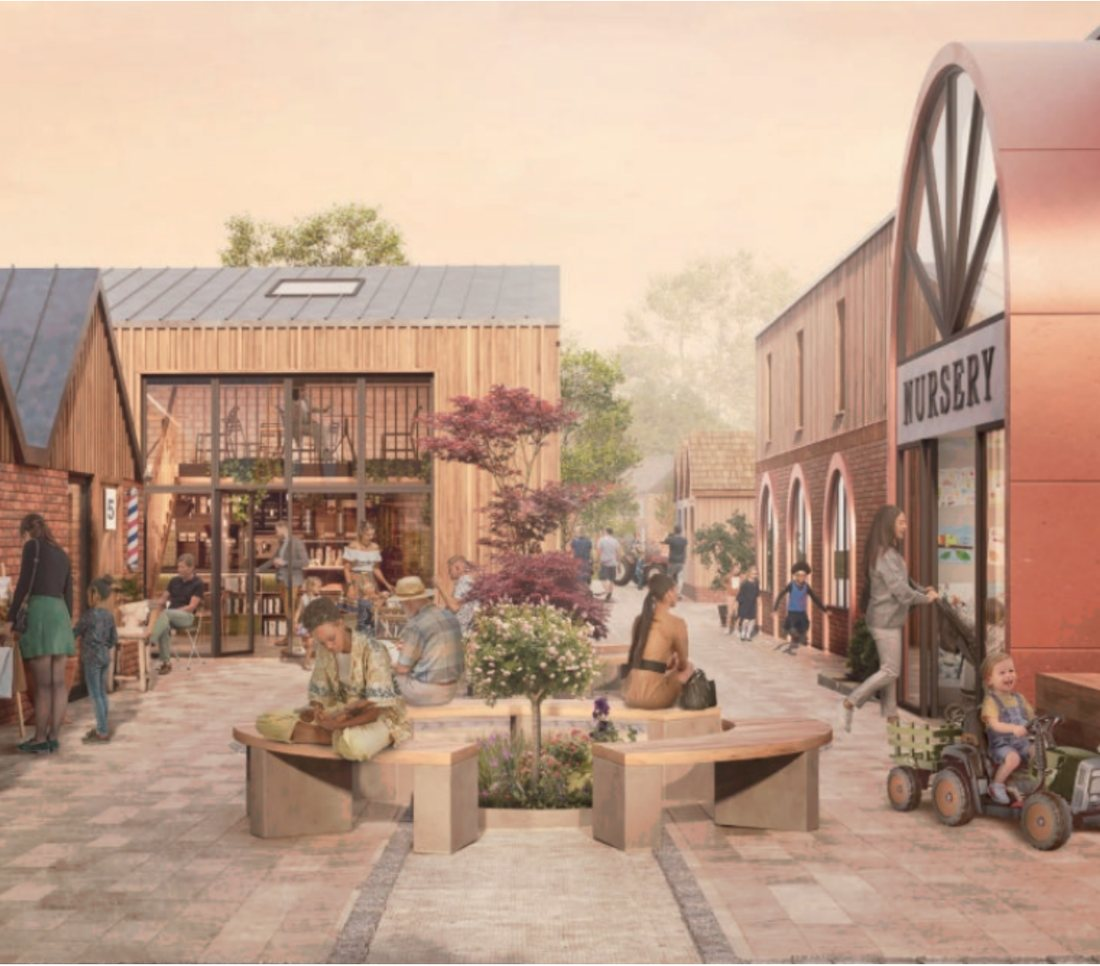
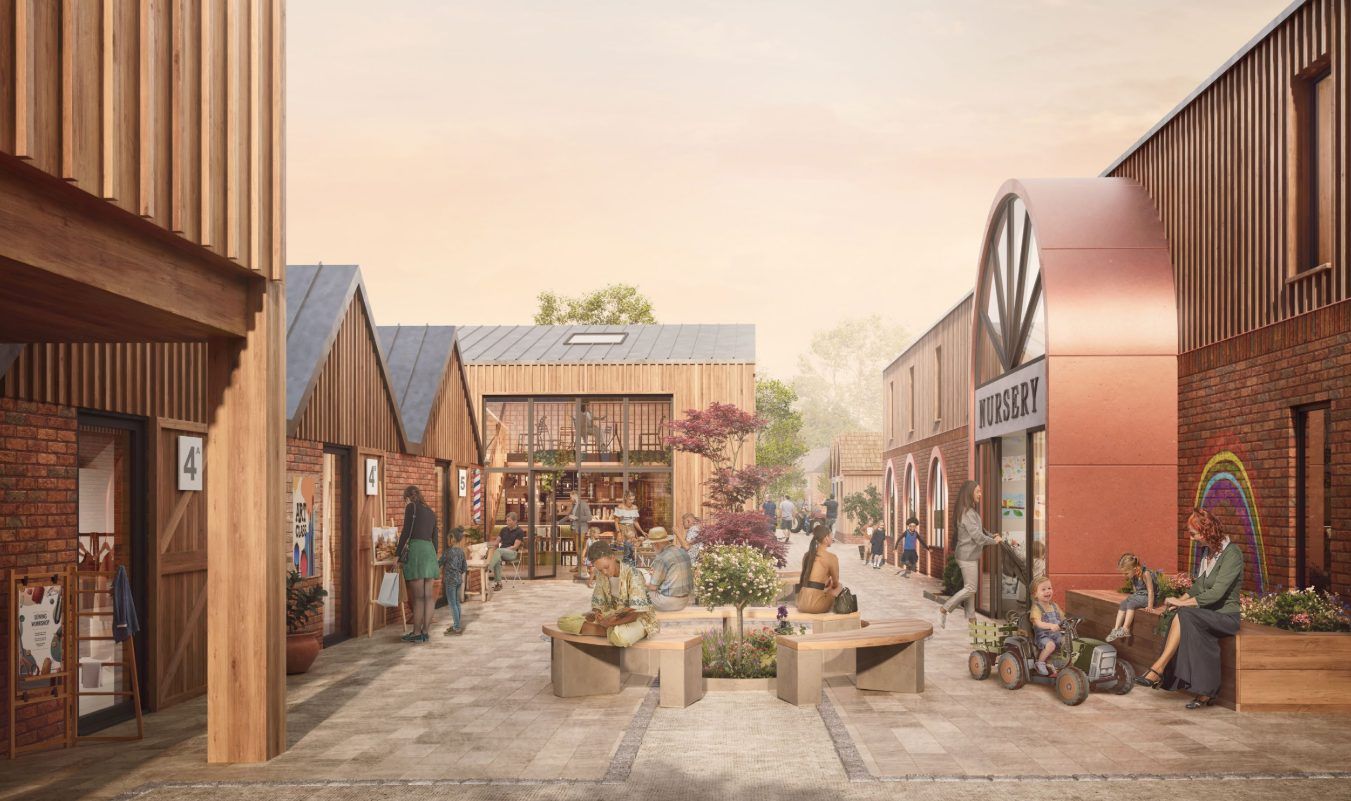
13 Oct review: image fit, white capsules, Regal ME, carousel wrap, low-carbon green, new Curborough and Tyntesfield images
- Project images: fit:'contain' over blurred self-fill for near-square and portrait sources; Chelmsford bottom-anchored crop
- Capsules white with accent outline on homepage and projects grid
- Lampworks capsule reads Regal ME (capsule = client)
- Homepage carousel wraps at both ends
- low-carbon green as whole phrase site-wide
- Curborough: full-width architect CGIs; Tyntesfield: Charlie's 4:3 exterior photo

Claude-Session: https://claude.ai/code/session_01DparPV2jJeWcYcmS6VUPQu

diff --git a/src/data/projects.js b/src/data/projects.js
@@ -3,13 +3,17 @@
 // list, applied to the capsule, the field labels and the "View project" link.
 // Copy comes from the capabilities brochure and the client's review notes; the
 // word "carbon" is wrapped in .c-green per the brand rule.
+// fit: 'contain' (13.10 review) shows the whole image inside the 16:10 frame over a blurred
+// fill of itself, instead of a cover crop that left near-square and portrait images looking
+// zoomed in. pos: overrides the crop anchor for cover images (Chelmsford sits bottom-anchored so
+// the care home, not the trees, fills the frame). Capsule = client name (Lampworks shows Regal ME), not the project name.
 const BLUE = 'var(--blue)', PINK = 'var(--magenta)', GREEN = 'var(--lime)';
 
 export const projects = [
   {
-    slug: 'the-lampworks', accent: BLUE,
+    slug: 'the-lampworks', accent: BLUE, fit: 'contain',
     img: '/assets/lampworks-cgi.png', alt: 'The Lampworks build-to-rent development',
-    capsule: 'The Lampworks', tag: 'Residential', title: 'The Lampworks',
+    capsule: 'Regal ME', tag: 'Residential', title: 'The Lampworks',
     client: 'Regal ME / Build Fifty5',
     project: '148 build-to-rent apartments across five blocks',
     sector: 'Residential', value: 'c. &pound;23.0m',
@@ -17,7 +21,7 @@ export const projects = [
     indexTag: '&pound;23m &middot; Residential'
   },
   {
-    slug: 'chelmsford-care-home', accent: PINK,
+    slug: 'chelmsford-care-home', accent: PINK, pos: 'center 100%',
     img: '/assets/chelmsford-care-home-cgi.jpg', alt: 'CGI of the new 60-bed care home at Chelmsford for Lovett Care',
     capsule: 'Lovett Care', tag: 'Later Living &amp; Care', title: 'Chelmsford Care Home',
     client: 'Lovett Care',
@@ -57,7 +61,7 @@ export const projects = [
     indexTag: 'Mixed-use &amp; Retail'
   },
   {
-    slug: 'melrose-grange', accent: GREEN,
+    slug: 'melrose-grange', accent: GREEN, fit: 'contain',
     img: '/assets/melrose-grange-cgi.jpg', alt: 'CGI of Melrose Grange care home, St Mellons, Cardiff',
     capsule: 'Hallmark', tag: 'Later Living &amp; Care', title: 'Melrose Grange, Cardiff',
     client: 'Hallmark Luxury Care Homes',
@@ -77,7 +81,7 @@ export const projects = [
     indexTag: '&pound;2m &middot; Retail &amp; Hospitality'
   },
   {
-    slug: 'tyntesfield-cow-barn', accent: PINK,
+    slug: 'tyntesfield-cow-barn', accent: PINK, pos: 'center 40%',
     img: '/assets/tyntesfield-cow-barn.jpg', alt: 'The Cow Barn cafe at National Trust Tyntesfield',
     capsule: 'National Trust', tag: 'Heritage', title: 'Tyntesfield Cow Barn',
     client: 'National Trust',
@@ -87,7 +91,7 @@ export const projects = [
     indexTag: '&pound;1m &middot; Heritage'
   },
   {
-    slug: 'corner-house-port-loop', accent: GREEN,
+    slug: 'corner-house-port-loop', accent: GREEN, fit: 'contain',
     img: '/assets/corner-house-port-loop-cgi.jpg', alt: 'CGI of Corner House 1 at Icknield Port Loop, Birmingham',
     capsule: 'Urban Splash', tag: 'Residential', title: 'Corner House, Port Loop',
     client: 'Urban Splash / Create.iF',
@@ -97,7 +101,7 @@ export const projects = [
     indexTag: '&pound;15m &middot; Residential'
   },
   {
-    slug: 'kings-hill-care-home', accent: BLUE,
+    slug: 'kings-hill-care-home', accent: BLUE, fit: 'contain',
     img: '/assets/kings-hill-cgi.jpg', alt: 'CGI of the new 78-bed care home at King’s Hill for Lovett Care',
     capsule: 'Lovett Care', tag: 'Later Living &amp; Care', title: 'King&rsquo;s Hill Care Home',
     client: 'Lovett Care',
@@ -107,7 +111,7 @@ export const projects = [
     indexTag: '&pound;11m &middot; Later Living &amp; Care'
   },
   {
-    slug: 'calke-abbey-hub-kitchen', accent: PINK,
+    slug: 'calke-abbey-hub-kitchen', accent: PINK, fit: 'contain',
     img: '/assets/calke-abbey-hub-kitchen.jpg', alt: 'The new timber-clad Hub Kitchen at Calke Abbey with roof-mounted solar PV',
     capsule: 'National Trust', tag: 'Heritage', title: 'Calke Abbey Hub Kitchen',
     client: 'The National Trust',
@@ -121,7 +125,7 @@ export const projects = [
 // Projects index only: Batsford sits after the eleven featured projects.
 export const indexExtra = [
   {
-    slug: 'batsford-arboretum', accent: GREEN,
+    slug: 'batsford-arboretum', accent: GREEN, fit: 'contain',
     img: '/assets/batsford-arboretum.jpg', alt: 'Batsford Arboretum visitor building extension',
     capsule: 'Batsford Arboretum', indexTag: '&pound;2m &middot; Heritage'
   }

diff --git a/src/styles/home.css b/src/styles/home.css
@@ -172,6 +172,12 @@ html.preloading{ overflow:hidden; }
 .card .img .fill{ position:absolute; inset:0; background-position:center; background-size:cover;
   transition:transform .5s ease; }
 .card:hover .img .fill{ transform:scale(1.045); }
+/* 13.10 review: whole image visible, blurred self-fill behind (no cover crop) */
+.fill.contain{ background-size:0 0; background-color:var(--navy-2); }
+.fill.contain::before, .fill.contain::after{ content:""; position:absolute; background-image:inherit;
+  background-repeat:no-repeat; background-position:center; }
+.fill.contain::before{ inset:-24px; background-size:cover; filter:blur(22px) brightness(.72) saturate(.9); }
+.fill.contain::after{ inset:0; background-size:contain; }
 .card .img::after{ content:""; position:absolute; inset:0;
   background:linear-gradient(to top, rgba(32,47,88,.55) 0%, rgba(32,47,88,0) 42%); transition:opacity .3s ease; }
 .card:hover .img::after, .card:focus-visible .img::after{ opacity:0; }
@@ -187,11 +193,11 @@ html.preloading{ overflow:hidden; }
 .card .reveal dd{ font-size:14px; line-height:1.45; color:#fff; margin:0; }
 .card .reveal .more{ position:static; }
 .card .capsules{ position:absolute; top:30px; left:30px; z-index:2; display:flex; gap:8px; flex-wrap:wrap; }
-.capsule{ display:inline-flex; align-items:center; background:rgba(32,47,88,.72);
-  backdrop-filter:blur(6px); -webkit-backdrop-filter:blur(6px);
-  border:1px solid var(--acc,var(--lime)); border-radius:100px; padding:8px 16px;
-  color:var(--acc,var(--lime)); font-size:11px; font-weight:700; letter-spacing:.12em; text-transform:uppercase; }
-.capsule.alt{ border-color:rgba(255,255,255,.35); color:#fff; }
+.capsule{ display:inline-flex; align-items:center; background:#fff;
+  border:1.5px solid var(--acc,var(--lime)); border-radius:100px; padding:8px 16px;
+  color:var(--acc,var(--lime)); font-size:11px; font-weight:700; letter-spacing:.12em; text-transform:uppercase;
+  box-shadow:0 4px 14px -6px rgba(32,47,88,.45); }
+.capsule.alt{ border-color:var(--navy); color:var(--navy); }
 .card .more{ display:inline-flex; align-items:center; gap:8px;
   color:var(--acc); font-weight:700; font-size:13px; letter-spacing:.06em; text-transform:uppercase;
   transition:color .2s ease; }

diff --git a/src/styles/pages.css b/src/styles/pages.css
@@ -34,12 +34,18 @@
 .pcard .fill{ position:absolute; inset:0; background-size:cover; background-position:center;
   transition:transform .5s ease; }
 .pcard:hover .fill{ transform:scale(1.04); }
+.pcard .fill.contain{ background-size:0 0; background-color:var(--navy-2); }
+.pcard .fill.contain::before, .pcard .fill.contain::after{ content:""; position:absolute; background-image:inherit;
+  background-repeat:no-repeat; background-position:center; }
+.pcard .fill.contain::before{ inset:-24px; background-size:cover; filter:blur(22px) brightness(.72) saturate(.9); }
+.pcard .fill.contain::after{ inset:0; background-size:contain; }
 .pcard .shade{ position:absolute; inset:0;
   background:linear-gradient(180deg, rgba(32,47,88,.18) 0%, rgba(32,47,88,.05) 40%, rgba(32,47,88,.72) 100%); }
 .pcard .capsules{ position:absolute; top:24px; left:24px; display:flex; flex-wrap:wrap; gap:8px; }
-.pcard .capsule{ background:#fff; color:var(--acc,var(--navy)); font-size:12.5px; font-weight:700;
-  padding:7px 13px; border-radius:999px; }
-.pcard .capsule.alt{ background:rgba(32,47,88,.78); color:#fff; }
+.pcard .capsule{ background:#fff; color:var(--acc,var(--navy)); border:1.5px solid var(--acc,var(--navy));
+  font-size:11px; font-weight:700; letter-spacing:.12em; text-transform:uppercase;
+  padding:7px 14px; border-radius:999px; box-shadow:0 4px 14px -6px rgba(32,47,88,.45); }
+.pcard .capsule.alt{ color:var(--navy); border-color:var(--navy); }
 .pcard .more{ position:absolute; left:24px; bottom:20px; color:#fff; font-weight:700; font-size:14px; transition:color .2s ease; }
 .pcard:hover .more{ color:var(--acc,#fff); }
 .pcard .more .arr{ display:inline-block; transition:transform .25s ease; }

diff --git a/public/js/home.js b/public/js/home.js
@@ -160,7 +160,8 @@
         idx = 0;
     var padLeft = function () { return parseFloat(getComputedStyle(slides).paddingLeft) || 0; };
     var go = function (i) {
-      idx = Math.min(Math.max(i, 0), items.length - 1);
+      /* 13.10 review: wrap at either end rather than stopping on the last card */
+      idx = (i + items.length) % items.length;
       slides.scrollTo({ left: items[idx].offsetLeft - padLeft(), behavior: reduced ? 'auto' : 'smooth' });
     };
     document.getElementById('prevBtn').addEventListener('click', function () { go(idx - 1); });

diff --git a/README.md b/README.md
@@ -36,7 +36,7 @@ npm run build    # static output in dist/
 ## Standing brand rules (enforced, keep it that way)
 
 - No em dashes anywhere in copy.
-- The word "carbon" is always Rubix green (`.c-green` span); inherits on green surfaces. Page `<title>`/meta are exempt (unstylable).
+- The word "carbon" is always Rubix green (`.c-green` span); "low-carbon" is green as a whole phrase (13.10). Inherits on green surfaces. Page `<title>`/meta are exempt (unstylable).
 - Footer logo is the white-square Rubix mark without "MEP" (`assets/logo-footer.png`).
 - Sectors section is ON HOLD: no `/sectors` links anywhere; sector names appear as non-linked text.
 
@@ -45,6 +45,12 @@ npm run build    # static output in dist/
 Applied: navy-first palette with magenta and lime demoted to text accents; all inner-page banners on the homepage navy duotone; header CTA transparent with white outline; menu is a right-hand side panel; white-wordmark-on-white-tile logo on dark banners (`logo-white-tile-mep.png`), blue version for light pages, navy tile fades in behind the docked homepage logo; enquiry form (first name, last name, company, email) replaces the old CTA band on every page (`Cta.astro`); "Sustainability" renamed Building Physics (pillar, services block moved under the three discipline cards, footer); homepage differentiator is Building Physics with the "How it works" button removed; client band white with blue label; sectors as a static two-column list; featured project cards larger with a hover reveal (client, project, sector, value, key fact); testimonials as three short staggered quotes linking to project pages; About fully navy with white outlines, leadership photo and careers photo removed, directors as a hover row, Vision above the team, team 4-wide, top "Join us" pill removed, "chartered" removed from copy; Contact white with the full address (Unit 612/13B), mobiles removed, map embedded by address (no "JQ Modern" label), separate careers form.
 
 Forms: interim only. `public/js/site.js` shows the thank-you state client-side and sends nothing until the HubSpot account exists; swap in the HubSpot embed or Forms API post and keep the markup.
+
+## 13 Oct 2026 review round (Alec walkthrough, recorded in Notion)
+
+Applied: project images no longer hard-cropped to 16:10. Near-square and portrait images (`fit: 'contain'` in `src/data/projects.js`: Lampworks, Melrose, Corner House, King's Hill, Calke Abbey, Batsford) show the whole image over a blurred fill of itself, so nothing is zoomed in and Batsford's wavy roof is visible; Chelmsford stays a cover crop anchored to the bottom (`pos`) so the care home, not the trees, fills the frame. Capsules on the homepage carousel and the projects grid are now white with the accent-colour outline and text (pink was unreadable on navy); the sector capsule is white with navy. Lampworks capsule reads "Regal ME" (capsule = client, not project). Homepage carousel wraps at both ends. "Low-carbon" is now green as a whole phrase (`<span class="c-green">low-carbon</span>`), extending the carbon-green rule: carbon is bad, low carbon is good.
+
+Curborough now uses the two full-width architect CGIs (courtyard = card image, Farmers Table street = second image) and Tyntesfield uses Charlie's own 4:3 exterior photo (converted from HEIC, 2000px); both back to a normal crop. Still waiting on from Rubix: the two carbon impact study visuals for Services, Adam's colour headshot (SharePoint staff photos, "AB"), Sarah's photo, HubSpot form embed codes. Team page tweaks (Stuart up, Dave down, Winnie zoom, names-on-image hover) not yet done. Calke Abbey source image is itself a close crop of the roof; a wider shot is needed to show the building.
 
 ## Known gaps / decisions to revisit
 
